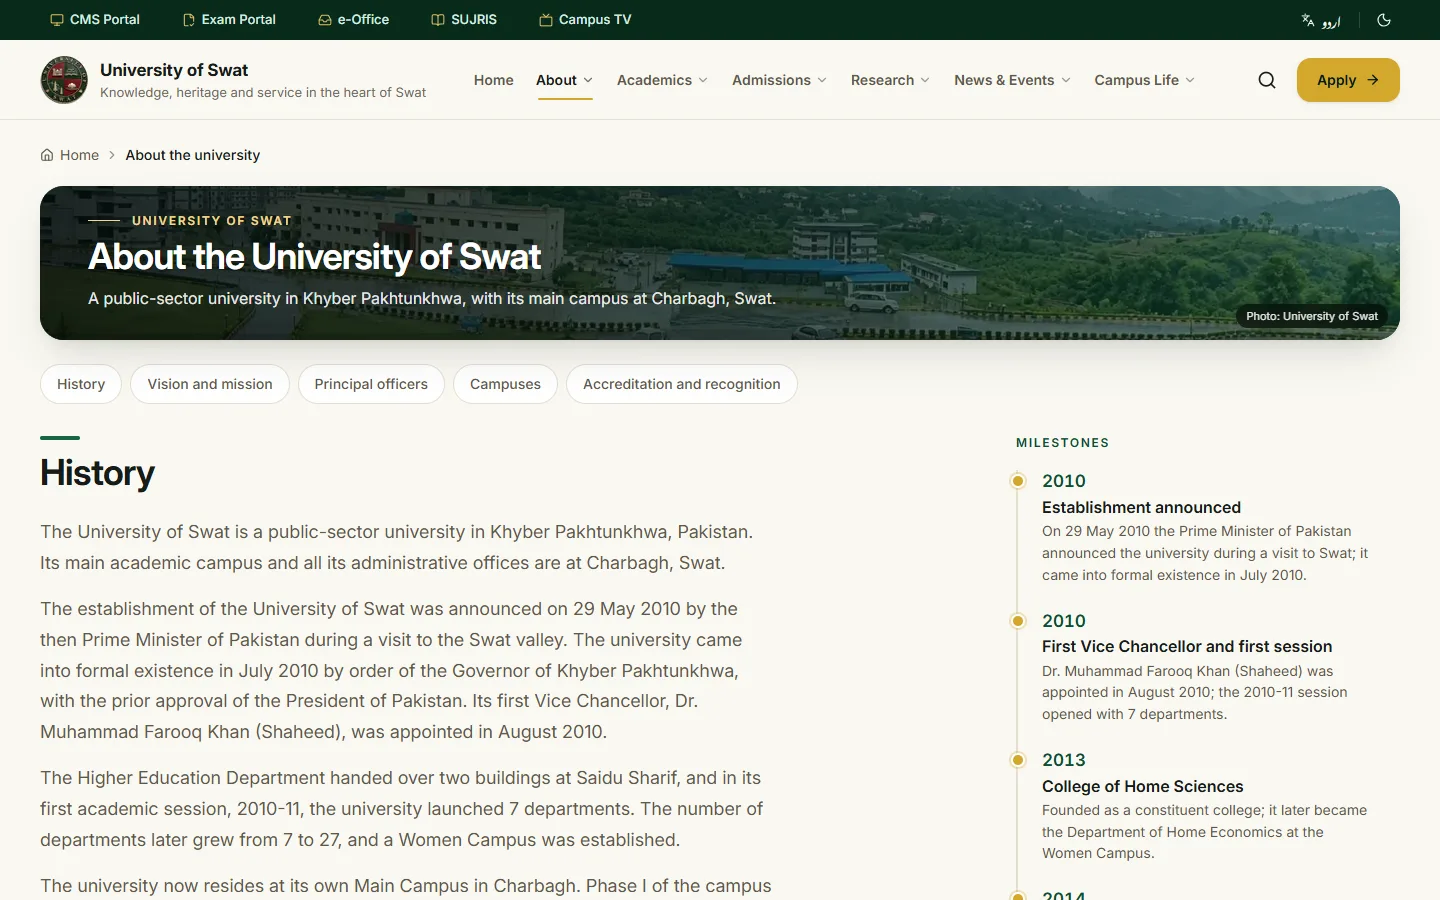
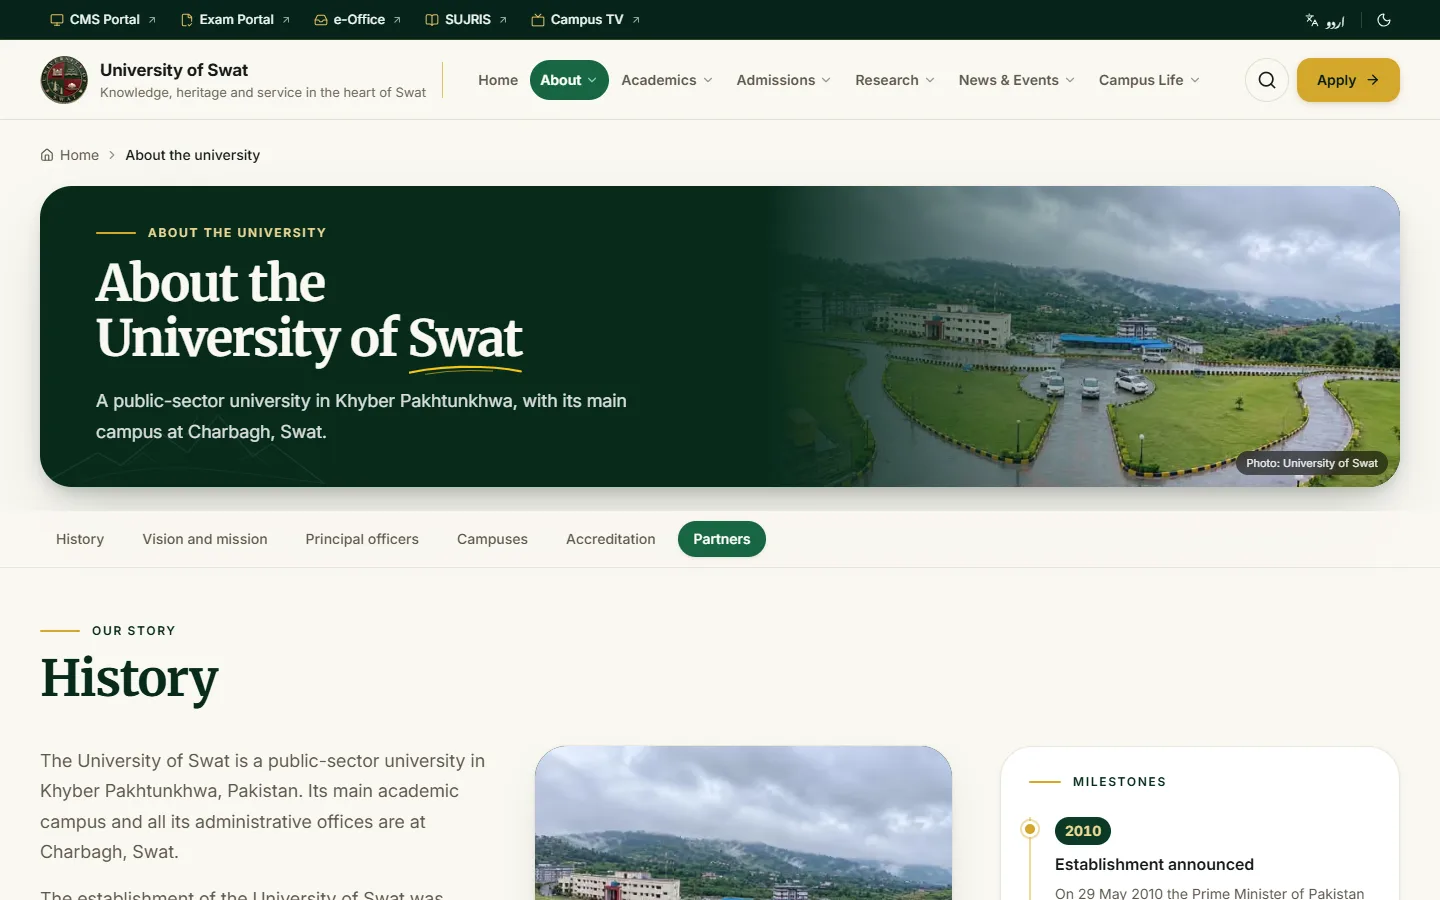
docs: README screenshots retaken from the final design
Home, About, Academics, CS department, faculty profile, Admissions,
Research, News and Campus Life on desktop (1440px) and phone (390px @2x),
first screen and full page with lazy sections forced to render, plus the
homepage in Urdu/dark and the Strapi admin as the demo Department Editor.
Old-design top-level screenshots removed.

diff --git a/README.md b/README.md
@@ -43,26 +43,32 @@ all of that content and its structure, and focuses on how it is presented, found
 
 ## Screenshots
 
-All screenshots are of the production build with the seeded content (November 2026). The full set (8 pages ×
-desktop/mobile × English/Urdu × light/dark) is in [`docs/screenshots`](docs/screenshots).
+Production build with the seeded content, captured November 2026 in English, light theme (plus the homepage in
+Urdu, dark). Desktop is 1440 px wide, phone 390 px. Each image links to the whole page, top to bottom, with
+every below-the-fold section rendered. All files are in [`docs/screenshots`](docs/screenshots).
 
-| Desktop, English, light | Desktop, Urdu, dark |
-|---|---|
-| ![Homepage, English, light](docs/screenshots/home-desktop-en-light.webp) | ![Homepage, Urdu, dark](docs/screenshots/home-desktop-ur-dark.webp) |
-| ![Admissions hub, English, light](docs/screenshots/admissions-desktop-en-light.webp) | ![Admissions hub, Urdu, dark](docs/screenshots/admissions-desktop-ur-dark.webp) |
-| ![Department page, English, light](docs/screenshots/department-desktop-en-light.webp) | ![Department page, Urdu, dark](docs/screenshots/department-desktop-ur-dark.webp) |
-| ![News and events, English, light](docs/screenshots/news-desktop-en-light.webp) | ![News and events, Urdu, dark](docs/screenshots/news-desktop-ur-dark.webp) |
-
-| Phone, English, light | Phone, English, dark | Phone, Urdu, light | Phone, Urdu, dark |
-|---|---|---|---|
-| ![Homepage on a phone, English, light](docs/screenshots/home-mobile-en-light.webp) | ![Homepage on a phone, English, dark](docs/screenshots/home-mobile-en-dark.webp) | ![Homepage on a phone, Urdu, light](docs/screenshots/home-mobile-ur-light.webp) | ![Homepage on a phone, Urdu, dark](docs/screenshots/home-mobile-ur-dark.webp) |
-| ![Menu on a phone, English](docs/screenshots/menu-mobile-en-light.webp) | ![Faculty directory on a phone, English, dark](docs/screenshots/directory-mobile-en-dark.webp) | ![Admissions on a phone, Urdu, light](docs/screenshots/admissions-mobile-ur-light.webp) | ![Menu on a phone, Urdu, dark](docs/screenshots/menu-mobile-ur-dark.webp) |
-
-| Global search (Ctrl/⌘ + K) | Search in Urdu | Mega menu |
+| Page | Desktop | Phone |
 |---|---|---|
-| ![Search dialog with results for "physics"](docs/screenshots/search-desktop-en-light.webp) | ![Urdu search dialog with results for فیس](docs/screenshots/search-desktop-ur-dark.webp) | ![Open Academics mega menu](docs/screenshots/megamenu-desktop-en-light.webp) |
+| **Homepage** | [![Homepage on a desktop screen](docs/screenshots/home-desktop-en-light.webp)](docs/screenshots/home-desktop-en-light-full.webp) | [![Homepage on a phone](docs/screenshots/home-mobile-en-light.webp)](docs/screenshots/home-mobile-en-light-full.webp) |
+| **About** | [![About on a desktop screen](docs/screenshots/about-desktop-en-light.webp)](docs/screenshots/about-desktop-en-light-full.webp) | [![About on a phone](docs/screenshots/about-mobile-en-light.webp)](docs/screenshots/about-mobile-en-light-full.webp) |
+| **Academics** | [![Academics on a desktop screen](docs/screenshots/academics-desktop-en-light.webp)](docs/screenshots/academics-desktop-en-light-full.webp) | [![Academics on a phone](docs/screenshots/academics-mobile-en-light.webp)](docs/screenshots/academics-mobile-en-light-full.webp) |
+| **Department of Computer and Software Technology** | [![Department of Computer and Software Technology on a desktop screen](docs/screenshots/department-desktop-en-light.webp)](docs/screenshots/department-desktop-en-light-full.webp) | [![Department of Computer and Software Technology on a phone](docs/screenshots/department-mobile-en-light.webp)](docs/screenshots/department-mobile-en-light-full.webp) |
+| **Faculty profile** | [![Faculty profile on a desktop screen](docs/screenshots/faculty-profile-desktop-en-light.webp)](docs/screenshots/faculty-profile-desktop-en-light-full.webp) | [![Faculty profile on a phone](docs/screenshots/faculty-profile-mobile-en-light.webp)](docs/screenshots/faculty-profile-mobile-en-light-full.webp) |
+| **Admissions hub** | [![Admissions hub on a desktop screen](docs/screenshots/admissions-desktop-en-light.webp)](docs/screenshots/admissions-desktop-en-light-full.webp) | [![Admissions hub on a phone](docs/screenshots/admissions-mobile-en-light.webp)](docs/screenshots/admissions-mobile-en-light-full.webp) |
+| **Research** | [![Research on a desktop screen](docs/screenshots/research-desktop-en-light.webp)](docs/screenshots/research-desktop-en-light-full.webp) | [![Research on a phone](docs/screenshots/research-mobile-en-light.webp)](docs/screenshots/research-mobile-en-light-full.webp) |
+| **News & Events** | [![News & Events on a desktop screen](docs/screenshots/news-desktop-en-light.webp)](docs/screenshots/news-desktop-en-light-full.webp) | [![News & Events on a phone](docs/screenshots/news-mobile-en-light.webp)](docs/screenshots/news-mobile-en-light-full.webp) |
+| **Campus life** | [![Campus life on a desktop screen](docs/screenshots/campus-life-desktop-en-light.webp)](docs/screenshots/campus-life-desktop-en-light-full.webp) | [![Campus life on a phone](docs/screenshots/campus-life-mobile-en-light.webp)](docs/screenshots/campus-life-mobile-en-light-full.webp) |
+| **Homepage in Urdu, dark** | [![Homepage in Urdu, dark theme, on a desktop screen](docs/screenshots/home-desktop-ur-dark.webp)](docs/screenshots/home-desktop-ur-dark-full.webp) | [![Homepage in Urdu, dark theme, on a phone](docs/screenshots/home-mobile-ur-dark.webp)](docs/screenshots/home-mobile-ur-dark-full.webp) |
 
-The whole homepage, top to bottom: [home-desktop-en-light-full.webp](docs/screenshots/home-desktop-en-light-full.webp).
+**Strapi admin**, signed in as the demo Department Editor for Computer and Software Technology: the dashboard
+shows only their department, and the Content Manager lists only its own entries.
+
+| Dashboard | Department entry | Department's posts |
+|---|---|---|
+| ![Strapi dashboard for a department editor](docs/screenshots/strapi-dashboard-desktop.webp) | ![Editing the department in Strapi](docs/screenshots/strapi-department-edit-desktop.webp) | ![Posts list in Strapi, filtered to the department](docs/screenshots/strapi-posts-list-desktop.webp) |
+
+The same admin screens on a phone: [dashboard](docs/screenshots/strapi-dashboard-mobile.webp),
+[department](docs/screenshots/strapi-department-edit-mobile.webp), [posts](docs/screenshots/strapi-posts-list-mobile.webp), [editing a post](docs/screenshots/strapi-post-edit-mobile.webp).
 
 ## Features
 
@@ -251,14 +257,14 @@ Staff never touch code. A Media Cell editor publishes a news story in about two 
 1. Sign in at `https://cms.<domain>/admin` with the account the Super Admin created.
 2. Open **Content Manager › Post** and click **Create new entry**.
 
-   ![Strapi admin: list of posts in the Content Manager](docs/screenshots/strapi-posts-list.webp)
+   ![Strapi admin: list of posts in the Content Manager, as the demo Department Editor sees it (only their department's posts)](docs/screenshots/strapi-posts-list-desktop.webp)
 
 3. Fill in **title** (the **slug**, the web address, is made from it), choose a **category** (news,
    announcement or event), write a short **excerpt** and the **content**. Add a **coverImage** from the Media
    Library; its caption becomes the photo credit. For an event, add **eventStart**, **eventEnd** and
    **eventLocation**; to show it in the homepage notices ticker, switch on **showInTicker**.
 
-   ![Strapi admin: editing a post](docs/screenshots/strapi-post-edit.webp)
+   ![Strapi admin: editing a post](docs/screenshots/strapi-post-edit-desktop.webp)
 
 4. Optional: switch the locale at the top to **Urdu** and add the Urdu title and excerpt. Fields left empty
    fall back to English on the Urdu site, clearly marked.

diff --git a/CHANGELOG.md b/CHANGELOG.md
@@ -1606,3 +1606,17 @@ consistency). Content, data and colours unchanged.
   department's member count, colleague faces (from 640px) and an arrow
 - QA on a production build: a real profile and a placeholder at 1440, 1024 and 375px, English and Urdu, light
   and dark; no overflow, no console errors; axe 0 violations across 16 runs
+
+## README screenshots retaken from the final design
+
+- New `docs/screenshots` set from a production build with the seeded content: Home, About, Academics, the
+  Computer and Software Technology department, a faculty profile, Admissions, Research, News & Events and Campus
+  Life at 1440px (desktop) and 390px @2x (phone), English and light, plus the homepage in Urdu and dark. Each has
+  a first-screen shot and a full-page shot (`-full.webp`)
+- Full-page captures force the lazy parts to render: `content-visibility` overridden, lazy images made eager,
+  a scroll through the page for streamed sections, reduced motion so nothing waits behind a scroll reveal
+- Strapi admin as the demo Department Editor (dashboard, department entry, the department's posts, editing a
+  post), desktop and phone
+- The previous top-level screenshots (old design, including search, menu and mega menu shots) are removed; the
+  `inner-pages/` and `pro-polish/` before/after sets stay as history
+- README: one Screenshots table (page × desktop/phone, each linking to its full page) and a Strapi admin row
